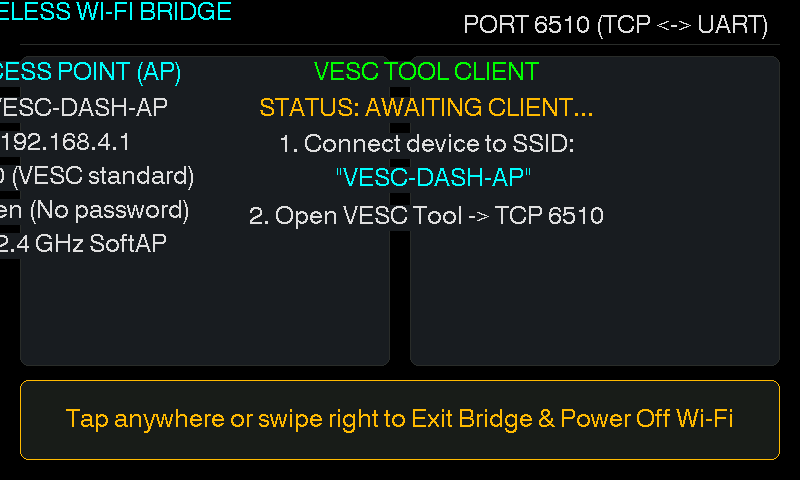
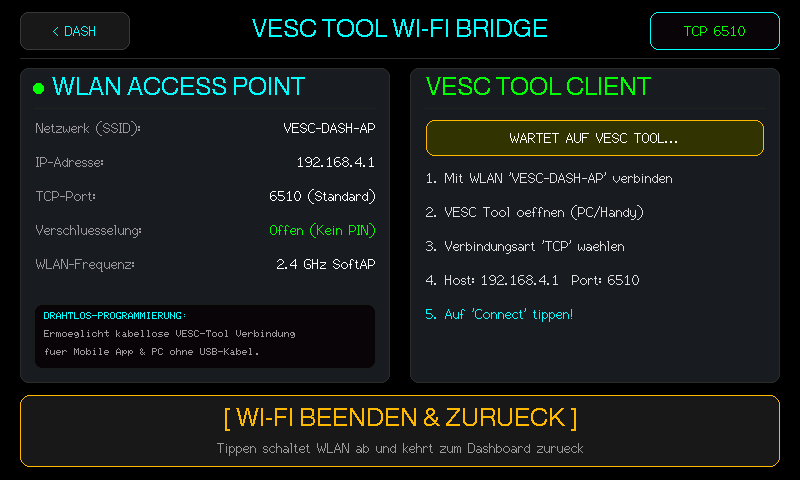
fix(bridge): fix text alignment bug and overhaul Wi-Fi/USB bridge screen layout

diff --git a/src/dash_renderer.cpp b/src/dash_renderer.cpp
@@ -2524,38 +2524,77 @@ bool DashboardRenderer::handleSettingsSliderDrag(int16_t cx, int16_t cy, DashTel
 // SCREEN 4: VESC TOOL USB PASSTHROUGH BRIDGE (800x480 Optimized)
 // ==============================================================================
 void DashboardRenderer::initVescBridgeScreen(const DashTelemetry &telemetry) {
-    // Header Bar
-    _canvas->setTextColor(COLOR_CYAN, COLOR_BG);
-    _canvas->drawString("VESC TOOL USB PASSTHROUGH BRIDGE", 20, 14, &fonts::Font4);
-
-    _canvas->setTextColor(COLOR_LIGHT_GRAY, COLOR_BG);
-    _canvas->setTextPadding(300);
-    _canvas->drawRightString("115200 BAUD (CDC <-> UART)", 770, 14, &fonts::Font4);
+    _canvas->setTextDatum(textdatum_t::top_left);
     _canvas->setTextPadding(0);
 
-    _canvas->drawFastHLine(20, 44, 760, COLOR_BORDER);
+    // 1. Header Bar (y: 12..52)
+    // Left: [< DASH] Button
+    _canvas->fillRoundRect(20, 12, 110, 38, 8, 0x18C3);
+    _canvas->drawRoundRect(20, 12, 110, 38, 8, 0x39C7);
+    _canvas->setFont(&fonts::Font2);
+    _canvas->setTextDatum(textdatum_t::middle_center);
+    _canvas->setTextColor(COLOR_CYAN, 0x18C3);
+    _canvas->drawString("< DASH", 75, 31);
 
-    // Left Card: PC / VESC Tool (w=370, h=310)
-    drawCard(20, 56, 370, 310, COLOR_SURFACE, COLOR_BORDER);
+    // Center Title
+    _canvas->setFont(&fonts::Font4);
+    _canvas->setTextColor(COLOR_CYAN, COLOR_BG);
+    _canvas->drawString("VESC TOOL USB PASSTHROUGH", 400, 31);
+
+    // Right Baud Badge
+    _canvas->fillRoundRect(620, 12, 160, 38, 8, 0x0821);
+    _canvas->drawRoundRect(620, 12, 160, 38, 8, COLOR_CYAN);
+    _canvas->setFont(&fonts::Font2);
+    _canvas->setTextColor(COLOR_GREEN, 0x0821);
+    _canvas->drawString("115200 BAUD", 700, 31);
+
+    _canvas->drawFastHLine(20, 58, 760, COLOR_BORDER);
+
+    // 2. Left Card: PC / VESC Tool (w=370, h=315)
+    drawCard(20, 68, 370, 315, COLOR_SURFACE, COLOR_BORDER);
+    _canvas->setFont(&fonts::Font4);
+    _canvas->setTextDatum(textdatum_t::top_left);
     _canvas->setTextColor(COLOR_CYAN, COLOR_SURFACE);
-    _canvas->drawString("PC / VESC TOOL (USB)", 36, 74, &fonts::Font4);
-    _canvas->setTextColor(COLOR_LIGHT_GRAY, COLOR_SURFACE);
-    _canvas->drawString("Port: USB CDC (/dev/ttyACM0)", 36, 110, &fonts::Font4);
-    _canvas->drawString("DATA RECEIVED FROM PC:", 36, 160, &fonts::Font4);
+    _canvas->drawString("PC / VESC TOOL (USB)", 36, 76);
 
-    // Right Card: VESC Controller (w=370, h=310)
-    drawCard(410, 56, 370, 310, COLOR_SURFACE, COLOR_BORDER);
+    _canvas->drawFastHLine(34, 108, 342, COLOR_SURFACE_LIGHT);
+
+    _canvas->setFont(&fonts::Font2);
+    _canvas->setTextColor(COLOR_LIGHT_GRAY, COLOR_SURFACE);
+    _canvas->drawString("Port: USB CDC (/dev/ttyACM0)", 36, 120);
+    _canvas->drawString("Status: Virtueller COM-Port aktiv", 36, 150);
+    _canvas->setTextColor(COLOR_MUTED_GRAY, COLOR_SURFACE);
+    _canvas->drawString("EMPFANGENE BYTES VOM PC:", 36, 195);
+
+    // 3. Right Card: VESC Controller (w=370, h=315)
+    drawCard(410, 68, 370, 315, COLOR_SURFACE, COLOR_BORDER);
+    _canvas->setFont(&fonts::Font4);
+    _canvas->setTextDatum(textdatum_t::top_left);
     _canvas->setTextColor(COLOR_GREEN, COLOR_SURFACE);
-    _canvas->drawString("VESC MOTOR CONTROLLER", 426, 74, &fonts::Font4);
-    _canvas->setTextColor(COLOR_LIGHT_GRAY, COLOR_SURFACE);
-    _canvas->drawString("Pins: TX=43, RX=44 (Serial1)", 426, 110, &fonts::Font4);
-    _canvas->drawString("DATA FORWARDED TO VESC:", 426, 160, &fonts::Font4);
+    _canvas->drawString("VESC MOTOR CONTROLLER", 426, 76);
 
-    // Bottom Help Banner (w=760, h=80)
-    _canvas->fillRoundRect(20, 380, 760, 80, 8, 0x18E3);
-    _canvas->drawRoundRect(20, 380, 760, 80, 8, COLOR_AMBER);
-    _canvas->setTextColor(COLOR_AMBER, 0x18E3);
-    _canvas->drawCenterString("Tap anywhere or swipe right to Exit Bridge and return to Dash", 400, 408, &fonts::Font4);
+    _canvas->drawFastHLine(424, 108, 342, COLOR_SURFACE_LIGHT);
+
+    _canvas->setFont(&fonts::Font2);
+    _canvas->setTextColor(COLOR_LIGHT_GRAY, COLOR_SURFACE);
+    _canvas->drawString("Pins: TX=43, RX=44 (Serial1)", 426, 120);
+    _canvas->drawString("Hardware: VESC UART Interface", 426, 150);
+    _canvas->setTextColor(COLOR_MUTED_GRAY, COLOR_SURFACE);
+    _canvas->drawString("GESENDETE BYTES AN VESC:", 426, 195);
+
+    // 4. Bottom Exit / Help Banner (w=760, h=72, y: 395..467)
+    _canvas->fillRoundRect(20, 395, 760, 72, 10, 0x18C3);
+    _canvas->drawRoundRect(20, 395, 760, 72, 10, COLOR_AMBER);
+    _canvas->setTextDatum(textdatum_t::middle_center);
+    _canvas->setFont(&fonts::Font4);
+    _canvas->setTextColor(COLOR_AMBER, 0x18C3);
+    _canvas->drawString("[ USB-BRIDGE BEENDEN & ZURUECK ]", 400, 420);
+    _canvas->setFont(&fonts::Font2);
+    _canvas->setTextColor(COLOR_MUTED_GRAY, 0x18C3);
+    _canvas->drawString("Tippen kehrt zum Dashboard zurueck", 400, 448);
+
+    _canvas->setTextDatum(textdatum_t::top_left);
+    _canvas->setTextPadding(0);
 
     _bridge_last_pc_bytes = 0xFFFFFFFF;
     _bridge_last_vesc_bytes = 0xFFFFFFFF;
@@ -2565,36 +2604,31 @@ void DashboardRenderer::renderVescBridgeScreen(const DashTelemetry &telemetry) {
     uint32_t pc_bytes = Vesc.getBridgePcToVescBytes();
     uint32_t vesc_bytes = Vesc.getBridgeVescToPcBytes();
 
+    _canvas->setFont(&fonts::Font6);
+    _canvas->setTextDatum(textdatum_t::top_left);
+
     if (pc_bytes != _bridge_last_pc_bytes) {
         _bridge_last_pc_bytes = pc_bytes;
         char buf[32];
-        if (pc_bytes < 1024) {
-            snprintf(buf, sizeof(buf), "%u B", (unsigned)pc_bytes);
-        } else if (pc_bytes < 1048576) {
-            snprintf(buf, sizeof(buf), "%.1f KB", pc_bytes / 1024.0f);
-        } else {
-            snprintf(buf, sizeof(buf), "%.2f MB", pc_bytes / 1048576.0f);
-        }
+        if (pc_bytes < 1024) snprintf(buf, sizeof(buf), "%u B", (unsigned)pc_bytes);
+        else if (pc_bytes < 1048576) snprintf(buf, sizeof(buf), "%.1f KB", pc_bytes / 1024.0f);
+        else snprintf(buf, sizeof(buf), "%.2f MB", pc_bytes / 1048576.0f);
+
+        _canvas->fillRect(36, 230, 330, 45, COLOR_SURFACE);
         _canvas->setTextColor(COLOR_WHITE, COLOR_SURFACE);
-        _canvas->setTextPadding(300);
-        _canvas->drawString(buf, 36, 205, &fonts::Font6);
-        _canvas->setTextPadding(0);
+        _canvas->drawString(buf, 36, 230);
     }
 
     if (vesc_bytes != _bridge_last_vesc_bytes) {
         _bridge_last_vesc_bytes = vesc_bytes;
         char buf[32];
-        if (vesc_bytes < 1024) {
-            snprintf(buf, sizeof(buf), "%u B", (unsigned)vesc_bytes);
-        } else if (vesc_bytes < 1048576) {
-            snprintf(buf, sizeof(buf), "%.1f KB", vesc_bytes / 1024.0f);
-        } else {
-            snprintf(buf, sizeof(buf), "%.2f MB", vesc_bytes / 1048576.0f);
-        }
+        if (vesc_bytes < 1024) snprintf(buf, sizeof(buf), "%u B", (unsigned)vesc_bytes);
+        else if (vesc_bytes < 1048576) snprintf(buf, sizeof(buf), "%.1f KB", vesc_bytes / 1024.0f);
+        else snprintf(buf, sizeof(buf), "%.2f MB", vesc_bytes / 1048576.0f);
+
+        _canvas->fillRect(426, 230, 330, 45, COLOR_SURFACE);
         _canvas->setTextColor(COLOR_WHITE, COLOR_SURFACE);
-        _canvas->setTextPadding(300);
-        _canvas->drawString(buf, 426, 205, &fonts::Font6);
-        _canvas->setTextPadding(0);
+        _canvas->drawString(buf, 426, 230);
     }
 }
 
@@ -2602,38 +2636,97 @@ void DashboardRenderer::renderVescBridgeScreen(const DashTelemetry &telemetry) {
 // SCREEN 5: VESC TOOL WIRELESS WI-FI BRIDGE (800x480 Optimized)
 // ==============================================================================
 void DashboardRenderer::initWifiBridgeScreen(const DashTelemetry &telemetry) {
-    // Header Bar
-    _canvas->setTextColor(COLOR_CYAN, COLOR_BG);
-    _canvas->drawString("VESC TOOL WIRELESS WI-FI BRIDGE", 20, 14, &fonts::Font4);
-
-    _canvas->setTextColor(COLOR_LIGHT_GRAY, COLOR_BG);
-    _canvas->setTextPadding(300);
-    _canvas->drawRightString("PORT 6510 (TCP <-> UART)", 770, 14, &fonts::Font4);
+    _canvas->setTextDatum(textdatum_t::top_left);
     _canvas->setTextPadding(0);
 
-    _canvas->drawFastHLine(20, 44, 760, COLOR_BORDER);
+    // 1. Header Bar (y: 12..52)
+    // Left: [< DASH] Button
+    _canvas->fillRoundRect(20, 12, 110, 38, 8, 0x18C3);
+    _canvas->drawRoundRect(20, 12, 110, 38, 8, 0x39C7);
+    _canvas->setFont(&fonts::Font2);
+    _canvas->setTextDatum(textdatum_t::middle_center);
+    _canvas->setTextColor(COLOR_CYAN, 0x18C3);
+    _canvas->drawString("< DASH", 75, 31);
 
-    // Left Card: Wi-Fi Access Point Details
-    drawCard(20, 56, 370, 310, COLOR_SURFACE, COLOR_BORDER);
+    // Center Title
+    _canvas->setFont(&fonts::Font4);
+    _canvas->setTextColor(COLOR_CYAN, COLOR_BG);
+    _canvas->drawString("VESC TOOL WI-FI BRIDGE", 400, 31);
+
+    // Right Port Badge
+    _canvas->fillRoundRect(650, 12, 130, 38, 8, 0x0821);
+    _canvas->drawRoundRect(650, 12, 130, 38, 8, COLOR_CYAN);
+    _canvas->setFont(&fonts::Font2);
+    _canvas->setTextColor(COLOR_GREEN, 0x0821);
+    _canvas->drawString("TCP 6510", 715, 31);
+
+    _canvas->drawFastHLine(20, 58, 760, COLOR_BORDER);
+
+    // 2. Left Card: Wi-Fi Access Point Details (w=370, h=315)
+    drawCard(20, 68, 370, 315, COLOR_SURFACE, COLOR_BORDER);
+    _canvas->fillCircle(38, 88, 5, COLOR_GREEN);
+    _canvas->setFont(&fonts::Font4);
+    _canvas->setTextDatum(textdatum_t::top_left);
     _canvas->setTextColor(COLOR_CYAN, COLOR_SURFACE);
-    _canvas->drawString("WI-FI ACCESS POINT (AP)", 36, 74, &fonts::Font4);
-    _canvas->setTextColor(COLOR_LIGHT_GRAY, COLOR_SURFACE);
-    _canvas->drawString("SSID:    VESC-DASH-AP", 36, 110, &fonts::Font4);
-    _canvas->drawString("IP:      192.168.4.1", 36, 144, &fonts::Font4);
-    _canvas->drawString("Port:    6510 (VESC standard)", 36, 178, &fonts::Font4);
-    _canvas->drawString("Auth:    Open (No password)", 36, 212, &fonts::Font4);
-    _canvas->drawString("Radio:   2.4 GHz SoftAP", 36, 246, &fonts::Font4);
+    _canvas->drawString("WLAN ACCESS POINT", 52, 76);
 
-    // Right Card: Client Connection & Traffic Throughput
-    drawCard(410, 56, 370, 310, COLOR_SURFACE, COLOR_BORDER);
+    _canvas->drawFastHLine(34, 108, 342, COLOR_SURFACE_LIGHT);
+
+    // Parameter List
+    int rowY = 120;
+    int rowH = 34;
+
+    auto drawRow = [&](const char *label, const char *val, uint16_t valCol) {
+        _canvas->setFont(&fonts::Font2);
+        _canvas->setTextDatum(textdatum_t::top_left);
+        _canvas->setTextColor(COLOR_MUTED_GRAY, COLOR_SURFACE);
+        _canvas->drawString(label, 36, rowY);
+
+        _canvas->setTextDatum(textdatum_t::top_right);
+        _canvas->setTextColor(valCol, COLOR_SURFACE);
+        _canvas->drawString(val, 376, rowY);
+        rowY += rowH;
+    };
+
+    drawRow("Netzwerk (SSID):", "VESC-DASH-AP", COLOR_WHITE);
+    drawRow("IP-Adresse:", "192.168.4.1", COLOR_WHITE);
+    drawRow("TCP-Port:", "6510 (Standard)", COLOR_WHITE);
+    drawRow("Verschluesselung:", "Offen (Kein PIN)", COLOR_GREEN);
+    drawRow("WLAN-Frequenz:", "2.4 GHz SoftAP", COLOR_WHITE);
+
+    // Small info box inside left card
+    _canvas->fillRoundRect(34, 304, 342, 65, 8, 0x0821);
+    _canvas->drawRoundRect(34, 304, 342, 65, 8, 0x18E3);
+    _canvas->setFont(&fonts::Font0);
+    _canvas->setTextDatum(textdatum_t::top_left);
+    _canvas->setTextColor(COLOR_CYAN, 0x0821);
+    _canvas->drawString("DRAHTLOS-PROGRAMMIERUNG:", 44, 312);
+    _canvas->setTextColor(COLOR_MUTED_GRAY, 0x0821);
+    _canvas->drawString("Ermoeglicht kabellose VESC-Tool Verbindung", 44, 330);
+    _canvas->drawString("fuer Mobile App & PC ohne USB-Kabel.", 44, 348);
+
+    // 3. Right Card: VESC Tool Client Connection & Traffic Throughput (w=370, h=315)
+    drawCard(410, 68, 370, 315, COLOR_SURFACE, COLOR_BORDER);
+    _canvas->setFont(&fonts::Font4);
+    _canvas->setTextDatum(textdatum_t::top_left);
     _canvas->setTextColor(COLOR_GREEN, COLOR_SURFACE);
-    _canvas->drawString("VESC TOOL CLIENT", 426, 74, &fonts::Font4);
+    _canvas->drawString("VESC TOOL CLIENT", 426, 76);
 
-    // Bottom Help Banner
-    _canvas->fillRoundRect(20, 380, 760, 80, 8, 0x18E3);
-    _canvas->drawRoundRect(20, 380, 760, 80, 8, COLOR_AMBER);
-    _canvas->setTextColor(COLOR_AMBER, 0x18E3);
-    _canvas->drawCenterString("Tap anywhere or swipe right to Exit Bridge & Power Off Wi-Fi", 400, 408, &fonts::Font4);
+    _canvas->drawFastHLine(424, 108, 342, COLOR_SURFACE_LIGHT);
+
+    // 4. Bottom Exit / Help Banner (w=760, h=72, y: 395..467)
+    _canvas->fillRoundRect(20, 395, 760, 72, 10, 0x18C3);
+    _canvas->drawRoundRect(20, 395, 760, 72, 10, COLOR_AMBER);
+    _canvas->setTextDatum(textdatum_t::middle_center);
+    _canvas->setFont(&fonts::Font4);
+    _canvas->setTextColor(COLOR_AMBER, 0x18C3);
+    _canvas->drawString("[ WI-FI BEENDEN & ZURUECK ]", 400, 420);
+    _canvas->setFont(&fonts::Font2);
+    _canvas->setTextColor(COLOR_MUTED_GRAY, 0x18C3);
+    _canvas->drawString("Tippen schaltet WLAN ab und kehrt zum Dashboard zurueck", 400, 448);
+
+    _canvas->setTextDatum(textdatum_t::top_left);
+    _canvas->setTextPadding(0);
 
     _bridge_last_wifi_rx = 0xFFFFFFFF;
     _bridge_last_wifi_tx = 0xFFFFFFFF;
@@ -2648,35 +2741,57 @@ void DashboardRenderer::renderWifiBridgeScreen(const DashTelemetry &telemetry) {
 
     if (conn_state != _bridge_last_wifi_conn) {
         _bridge_last_wifi_conn = conn_state;
-        _canvas->fillRoundRect(414, 100, 362, 255, 6, COLOR_SURFACE);
+        // Clear interior of right card
+        _canvas->fillRect(414, 112, 362, 265, COLOR_SURFACE);
 
         if (connected) {
-            _canvas->setTextColor(COLOR_GREEN, COLOR_SURFACE);
-            _canvas->drawString("STATUS: CONNECTED", 426, 110, &fonts::Font4);
+            // Status badge (green)
+            _canvas->fillRoundRect(426, 122, 338, 38, 8, 0x0380);
+            _canvas->drawRoundRect(426, 122, 338, 38, 8, COLOR_GREEN);
+            _canvas->setTextDatum(textdatum_t::middle_center);
+            _canvas->setFont(&fonts::Font2);
+            _canvas->setTextColor(COLOR_WHITE, 0x0380);
+            _canvas->drawString("STATUS: VERBUNDEN", 426 + 169, 141);
 
+            _canvas->setTextDatum(textdatum_t::top_left);
+            _canvas->setFont(&fonts::Font2);
             _canvas->setTextColor(COLOR_LIGHT_GRAY, COLOR_SURFACE);
             char ipBuf[40];
-            snprintf(ipBuf, sizeof(ipBuf), "Client IP: %s", Vesc.getWifiClientIp());
-            _canvas->drawString(ipBuf, 426, 146, &fonts::Font4);
+            snprintf(ipBuf, sizeof(ipBuf), "Client-IP: %s", Vesc.getWifiClientIp());
+            _canvas->drawString(ipBuf, 426, 172);
 
-            _canvas->drawString("APP -> VESC:", 426, 186, &fonts::Font4);
-            _canvas->drawString("VESC -> APP:", 426, 226, &fonts::Font4);
+            _canvas->drawFastHLine(426, 202, 338, COLOR_SURFACE_LIGHT);
+
+            _canvas->drawString("APP -> VESC:", 426, 220);
+            _canvas->drawString("VESC -> APP:", 426, 258);
 
             _bridge_last_wifi_rx = 0xFFFFFFFF;
             _bridge_last_wifi_tx = 0xFFFFFFFF;
         } else {
-            _canvas->setTextColor(COLOR_AMBER, COLOR_SURFACE);
-            _canvas->drawString("STATUS: AWAITING CLIENT...", 426, 110, &fonts::Font4);
+            // Status badge (amber)
+            _canvas->fillRoundRect(426, 120, 338, 36, 8, 0x31A0);
+            _canvas->drawRoundRect(426, 120, 338, 36, 8, COLOR_AMBER);
+            _canvas->setTextDatum(textdatum_t::middle_center);
+            _canvas->setFont(&fonts::Font2);
+            _canvas->setTextColor(COLOR_WHITE, 0x31A0);
+            _canvas->drawString("WARTET AUF VESC TOOL...", 426 + 169, 138);
+
+            // Instructions
+            _canvas->setTextDatum(textdatum_t::top_left);
+            _canvas->setFont(&fonts::Font2);
             _canvas->setTextColor(COLOR_LIGHT_GRAY, COLOR_SURFACE);
-            _canvas->drawString("1. Connect device to SSID:", 426, 146, &fonts::Font4);
+            _canvas->drawString("1. Mit WLAN 'VESC-DASH-AP' verbinden", 426, 170);
+            _canvas->drawString("2. VESC Tool oeffnen (PC/Handy)", 426, 204);
+            _canvas->drawString("3. Verbindungsart 'TCP' waehlen", 426, 238);
+            _canvas->drawString("4. Host: 192.168.4.1  Port: 6510", 426, 272);
             _canvas->setTextColor(COLOR_CYAN, COLOR_SURFACE);
-            _canvas->drawString("   \"VESC-DASH-AP\"", 426, 180, &fonts::Font4);
-            _canvas->setTextColor(COLOR_LIGHT_GRAY, COLOR_SURFACE);
-            _canvas->drawString("2. Open VESC Tool -> TCP 6510", 426, 218, &fonts::Font4);
+            _canvas->drawString("5. Auf 'Connect' tippen!", 426, 306);
         }
     }
 
     if (connected) {
+        _canvas->setFont(&fonts::Font4);
+        _canvas->setTextDatum(textdatum_t::top_left);
         if (rx_bytes != _bridge_last_wifi_rx) {
             _bridge_last_wifi_rx = rx_bytes;
             char buf[32];
@@ -2684,10 +2799,9 @@ void DashboardRenderer::renderWifiBridgeScreen(const DashTelemetry &telemetry) {
             else if (rx_bytes < 1048576) snprintf(buf, sizeof(buf), "%.1f KB", rx_bytes / 1024.0f);
             else snprintf(buf, sizeof(buf), "%.2f MB", rx_bytes / 1048576.0f);
 
+            _canvas->fillRect(570, 216, 190, 30, COLOR_SURFACE);
             _canvas->setTextColor(COLOR_WHITE, COLOR_SURFACE);
-            _canvas->setTextPadding(160);
-            _canvas->drawString(buf, 580, 186, &fonts::Font4);
-            _canvas->setTextPadding(0);
+            _canvas->drawString(buf, 570, 216);
         }
 
         if (tx_bytes != _bridge_last_wifi_tx) {
@@ -2697,10 +2811,9 @@ void DashboardRenderer::renderWifiBridgeScreen(const DashTelemetry &telemetry) {
             else if (tx_bytes < 1048576) snprintf(buf, sizeof(buf), "%.1f KB", tx_bytes / 1024.0f);
             else snprintf(buf, sizeof(buf), "%.2f MB", tx_bytes / 1048576.0f);
 
+            _canvas->fillRect(570, 254, 190, 30, COLOR_SURFACE);
             _canvas->setTextColor(COLOR_WHITE, COLOR_SURFACE);
-            _canvas->setTextPadding(160);
-            _canvas->drawString(buf, 580, 226, &fonts::Font4);
-            _canvas->setTextPadding(0);
+            _canvas->drawString(buf, 570, 254);
         }
     }
 }
